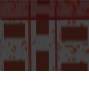
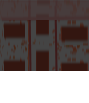
fo

diff --git a/scripts/canvas/showWorld.js b/scripts/canvas/showWorld.js
@@ -14,28 +14,25 @@ const hideUnseen=()=>{
 
 let lastScreenPos={}
 let lastZoomLevel=0
-// const stone=new Image()
-// stone.src='assets/background/largeConcrete.jpg'
+const stone=new Image()
+stone.src='assets/background/largeConcrete.jpg'
 const showWorld2=()=>{
   // if((lastZoomLevel===zoomLevel&&lastScreenPos.x===screenPos.x&&lastScreenPos.y===screenPos.y))return
-  // lastScreenPos.x=screenPos.x
-  // lastScreenPos.y=screenPos.y
-  // lastZoomLevel=zoomLevel
+  lastScreenPos.x=screenPos.x
+  lastScreenPos.y=screenPos.y
+  lastZoomLevel=zoomLevel
   const dim={x:5136,y:3424}
   const scale={x:dim.x/(width*200*zoomLevel),y:dim.y/(height*200*zoomLevel)}
-  // ctx2.drawImage(stone,screenPos.x*scale.x,screenPos.y*scale.y,screenwidth*scale.x,screenheight*scale.y,0,0,screenwidth,screenheight)
-  // ctx2.drawImage(stone,0,0,width*zoomLevel*200,height*zoomLevel*200)
+  ctx2.drawImage(stone,screenPos.x*scale.x,screenPos.y*scale.y,screenwidth*scale.x,screenheight*scale.y,0,0,screenwidth,screenheight)
 
-  // ctx2.fillStyle='#553424'
-  // ctx2.globalAlpha=0.75
-  // ctx2.fillRect(0,0,screenwidth,screenheight)
-  // ctx2.globalAlpha=1
+  ctx2.fillStyle='#633e2a'
+  ctx2.globalAlpha=0.5
+  ctx2.fillRect(0,0,screenwidth,screenheight)
+  ctx2.globalAlpha=1
 
   showFlatConstructs()
 
-  start=Date.now()
   hex&&horizontalLines()
-  hextime+=Date.now()-start
 }
 
 // const showWorld=()=>{

diff --git a/scripts/dialog/dialog.js b/scripts/dialog/dialog.js
@@ -15,7 +15,7 @@ const removeBackground=()=>{
 const displayEffect=e=>'<div>'+e.score+' '+e.amount+' '+e.type+'</div>'
 const info = (text,c,options=[],bg)=>{
   console.log(options)
-  let html='<div style="min-height:100%;background-color:#888888"><div style="padding:20">'
+  let html='<div style="min-height:100%"><div style="padding:20">'
 
   if(c&&c.pic.sprite)html+='<div><img src="assets/sprites/'+c.name+'.png"/>'+c.display+'</div>'
   html+='<div style="padding:50"  id="contents">'+text+'</div>'
@@ -33,6 +33,7 @@ const openDialog=()=>{
   document.body.onkeydown=()=>{};continueDrawing=false
   // slideTo(-1)
   document.getElementById('dialogContainer').style.left=0
+  hideCanvas()
 }
 const closeDialog = (lp=true) => {showHealth();closeDialog2();removeClones()
 dialogOpen=false;showCanvas();document.body.onkeydown=keydown;continueDrawing=true;

diff --git a/scripts/dialog/statsMenu.js b/scripts/dialog/statsMenu.js
@@ -43,7 +43,7 @@ const openStatsMenu = (target)=>{
     let topPic=target.top?'<img style="position:absolute;right:180;top:80" id="top" src="assets/items/'+target.top.picName+'.png"/>':''
     let trousersPic=target.trousers?'<img style="position:absolute;right:180;top:200" id="trousers" src="assets/items/'+target.trousers.picName+'.png"/>':''
     let shoesPic=target.shoes?'<img style="position:absolute;right:180;top:330" id="shoes" src="assets/items/'+target.shoes.picName+'.png"/>':''
-    document.getElementById('dialog').innerHTML='<div style="min-height:100%;padding:20;background-color:#999988">'+
+    document.getElementById('dialog').innerHTML='<div style="min-height:100%;padding:20;background-image:url(\'assets/background/paper.jpg\')">'+
     header(target)+
     spinningHuman+
     '<div style="width:'+(screenwidth*0.75-400)+'">'+

diff --git a/scripts/dialog/characterDesign/characterDesign.js b/scripts/dialog/characterDesign/characterDesign.js
@@ -28,19 +28,10 @@ const finishedCreation=(i)=>{
     slideTo(i+1)
   }else{
 
-    endDesign()
+    start()
   }
 }
-const endDesign=()=>{
-  charactersToDesign=[]
 
-  restart()
-  slideTo(-1)
-  closeDialog()
-  document.getElementById('message2').style.display='inline-block'
-  // removeBackground()
-
-}
 const decreaseButton=(s,i,type)=>'<button style="background-color:#999988;position:absolute;top:0;left:190"onclick="decrease'+type+'(\''+s+'\','+i+')">-</button>'
 const slideTo=(i)=>{
   console.log(i)

diff --git a/scripts/setup.js b/scripts/setup.js
@@ -56,10 +56,21 @@ const setup=()=>{
       newOrLoad()
       console.log('neworload')
     }  else{
-        endDesign()
+        start()
     }
   })
   setTimeout(initBackgrounds)
+
+}
+const start=()=>{
+  charactersToDesign=[]
+
+  restart()
+  slideTo(-1)
+  closeDialog()
+  centreScreen()
+  document.getElementById('message2').style.display='inline-block'
+  removeBackground()
 
 }
 let backgrounds=[]

diff --git a/scripts/combat/turn.js b/scripts/combat/turn.js
@@ -1,7 +1,6 @@
 let refuseInput=false
 
 const startTurn=()=>{
-  addMessage('.')
   creatures=creatures.filter(c=>c.controlled||c.status.status==='active')
   let filtered=creatures.filter(c=>c.status.status==='active'&&c.z===currentWorld&&c.status.stamina>0)
   // filtered.forEach(f=>{

diff --git a/scripts/save.js b/scripts/save.js
@@ -63,7 +63,7 @@ const loadData=text=>{
   currentWorld=you[0].z
   selected=you.find(y=>y.status.status==='active')
   continueDrawing=true
-  endDesign()
+  start()
   if(worldText){
     searched=JSON.parse(worldText)
     searched.forEach((id)=>constructs.find(c=>c.id===id).items=[])

diff --git a/scripts/actions/worldActions.js b/scripts/actions/worldActions.js
@@ -67,6 +67,7 @@ actions.pullLever=()=>{
 }
 actions.move=(coords)=>movePC(normalise(coords))
 actions.search=(id)=>{
+  console.log(id)
   let c=constructs.find(c=>c.id===id)
   let items=c.items
   if(!items.length)addMessage('You find nothing of interest')

diff --git a/scripts/input/handle.js b/scripts/input/handle.js
@@ -44,7 +44,6 @@ var handle = function(event) {
     }
     addMessage('invalid target!')
   }else{
-    console.log(coords)
     selectCharacterAt({coords:normalise(coords)})||
     attack(coords)||
     openActionMenu(coords)||

diff --git a/scripts/canvas/canvas.js b/scripts/canvas/canvas.js
@@ -18,7 +18,6 @@ const hideCanvas=()=>{
   console.log('hide')
   can2.style.display='none'
   document.getElementById('can').style.display='none'
-  document.getElementById('message').style.display='none'
 
 }
 let rectTime=0

diff --git a/styles.css b/styles.css
@@ -41,7 +41,7 @@ will-change: transform;
 body{
   background-color:#333333;
 -moz-user-select: none;
-font-family:arial;
+font-family:thestrong;
  -webkit-user-select: none;
  -ms-user-select:none;
  user-select:none;

diff --git a/config.js b/config.js
@@ -2,7 +2,7 @@
 let offerLoad=false
 
 
-let startingWorld=6
+let startingWorld=5
 
 let omniscient=false
 
